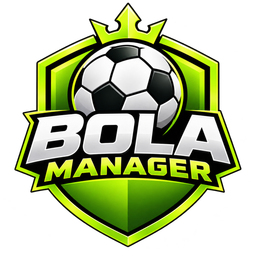
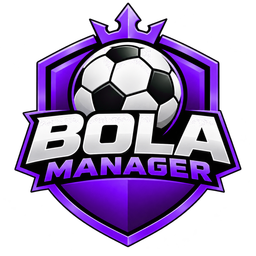
feat(menu): stadium scene with parallax, purple brand and big Continue
- Main menu over a night-stadium scene with four parallax depths
  (stadium, floodlight glow, particles, player cut-out) driven by the
  pointer through CSS variables, plus slow camera/flicker/float motion;
  all off with prefers-reduced-motion. The player shows on the career
  home only; other pages get a calmer shade for readability.
- Purple theme scoped to .main-menu--scene (dark in both themes); careers
  keep club colours and the global lime accent is untouched.
- "Continuar" first, as a large purple button with the latest save and
  date; game-style rail with tagline; glass panels for every menu page.
- Purple crest: master logo recoloured (greens only) and renditions
  regenerated; favicon.svg recoloured. Art generated for this project
  (fictional player, no real club/brand). Bahnschrift display font, no
  remote fonts. Version 0.1.13.

Changed region(s): [[0.0625, 0.0, 0.9375, 0.9688], [0.625, 0.5, 0.6562, 0.5312]]

diff --git a/files-mentioned-by-the-user-voce/outputs/bola-manager/src/styles/main-menu.css b/files-mentioned-by-the-user-voce/outputs/bola-manager/src/styles/main-menu.css
@@ -339,3 +339,98 @@
 @media (prefers-reduced-motion: reduce) {
   .main-menu *, .main-menu *::before, .main-menu *::after { animation: none !important; transition: none !important; scroll-behavior: auto !important; }
 }
+
+/* ===== Menu v2: stadium scene, purple theme and pointer parallax =====
+   Scoped to the main menu only: careers keep their club colours (AppShell/club theme). */
+.main-menu.main-menu--scene, .theme-light .main-menu.main-menu--scene {
+  --accent: #8b5cf6; --accent-hover: #a78bfa; --accent-deep: #5b21b6; --accent-dim: rgba(139, 92, 246, .18); --on-accent: #fff;
+  --canvas: #0b0914; --panel: rgba(16, 13, 28, .8); --raised: rgba(32, 26, 54, .85); --raised-2: rgba(44, 35, 72, .9);
+  --ink: #f4f2ff; --ink-soft: #d4cfea; --muted: #a39cc2; --muted-2: #7d769c; --line: rgba(255, 255, 255, .11); --line-soft: rgba(255, 255, 255, .06);
+  --green: #69d596; --blue: #8fb8ff; --amber: #e6b85c; --red: #ff7a85;
+  --menu-display: Bahnschrift, "Barlow Condensed", "Arial Narrow", sans-serif;
+  position: relative; isolation: isolate; color: var(--ink); background: #07060c;
+}
+.main-menu--scene > .main-menu__rail, .main-menu--scene > .main-menu__workspace { position: relative; z-index: 1; }
+.main-menu--scene .main-menu__workspace, .main-menu--scene .main-menu__footer, .main-menu--scene .main-menu__topbar { background: transparent; }
+
+/* Parallax layers: --mx/--my in [-0.5, 0.5] come from MenuParallaxBackdrop. */
+.menu-parallax { --mx: 0; --my: 0; position: fixed; z-index: 0; inset: 0; overflow: hidden; pointer-events: none; }
+.menu-parallax__layer { position: absolute; inset: -48px; transition: transform .6s cubic-bezier(.2, .7, .2, 1); will-change: transform; }
+.menu-parallax__stadium { transform: translate3d(calc(var(--mx) * -18px), calc(var(--my) * -12px), 0); }
+.menu-parallax__stadium-image { position: absolute; inset: 0; background: url("/assets/menu/stadium.webp") center 40% / cover no-repeat; animation: menu-kenburns 28s ease-in-out infinite alternate; }
+.menu-parallax__lights { background: radial-gradient(ellipse 30% 18% at 80% 12%, rgba(190, 160, 255, .32), transparent 70%), radial-gradient(ellipse 22% 14% at 55% 20%, rgba(150, 110, 255, .2), transparent 70%); transform: translate3d(calc(var(--mx) * -32px), calc(var(--my) * -20px), 0); animation: menu-flicker 5s ease-in-out infinite; }
+.menu-parallax__particles { inset: 0; transform: translate3d(calc(var(--mx) * -48px), calc(var(--my) * -28px), 0); }
+.menu-parallax__particles span { position: absolute; width: 4px; height: 4px; border-radius: 2px; background: #d4c5ff; box-shadow: 0 0 10px 2px rgba(160, 120, 255, .8); opacity: 0; animation: menu-float 9s linear infinite; }
+.menu-parallax__player { inset: auto 2% -2% auto; width: min(42vw, 700px); height: 92vh; transform: translate3d(calc(var(--mx) * -70px), calc(var(--my) * -22px), 0); }
+.menu-parallax__player img { width: 100%; height: 100%; object-fit: contain; object-position: bottom center; filter: drop-shadow(0 0 40px rgba(124, 58, 237, .45)); animation: menu-breathe 6s ease-in-out infinite; }
+.menu-parallax__shade { position: absolute; inset: 0; background: linear-gradient(90deg, rgba(7, 6, 12, .95) 0%, rgba(7, 6, 12, .74) 28%, rgba(7, 6, 12, .3) 58%, rgba(7, 6, 12, .55) 100%), linear-gradient(0deg, rgba(7, 6, 12, .92) 0%, rgba(7, 6, 12, 0) 32%); }
+.menu-parallax:not(.menu-parallax--home) .menu-parallax__shade { background: linear-gradient(90deg, rgba(7, 6, 12, .95), rgba(7, 6, 12, .8)); }
+.menu-parallax__streak { position: absolute; left: -10%; bottom: 7%; width: 60%; height: 3px; background: linear-gradient(90deg, transparent, #8b5cf6, transparent); opacity: .8; transform: rotate(-9deg); }
+@keyframes menu-kenburns { from { transform: scale(1.08); } to { transform: scale(1.16) translate3d(-1.5%, -1%, 0); } }
+@keyframes menu-flicker { 0%, 100% { opacity: .95; } 45% { opacity: .72; } 55% { opacity: 1; } }
+@keyframes menu-float { 0% { transform: translate3d(0, 0, 0); opacity: 0; } 15% { opacity: .9; } 100% { transform: translate3d(-40px, -260px, 0); opacity: 0; } }
+@keyframes menu-breathe { 0%, 100% { transform: translateY(0); } 50% { transform: translateY(-6px); } }
+@keyframes menu-sweep { from { transform: translateX(-120%) skewX(-18deg); } to { transform: translateX(320%) skewX(-18deg); } }
+
+/* Rail: glass column with the purple crest, tagline and big game-style options. */
+.main-menu--scene .main-menu__rail { border-right: 1px solid var(--line); background: rgba(9, 7, 17, .66); backdrop-filter: blur(14px); }
+.main-menu--scene .main-menu__brand { padding-bottom: 12px; }
+.main-menu--scene .brand-logo--menu .brand-logo__crest { filter: drop-shadow(0 0 22px rgba(124, 58, 237, .55)); }
+.main-menu__tagline { margin: 0 6px 22px; color: var(--ink-soft); font-size: 12px; font-weight: 600; letter-spacing: .26em; line-height: 1.6; text-align: center; text-transform: uppercase; }
+.main-menu--scene .main-menu__navigation { display: flex; flex-direction: column; gap: 7px; }
+.main-menu--scene .main-menu__nav-item--continue { order: -1; margin-bottom: 8px; }
+.main-menu--scene .main-menu__nav-item button { min-height: 48px; gap: 14px; padding: 10px 14px; color: var(--ink-soft); border: 1px solid var(--line); border-radius: 8px; background: rgba(14, 11, 24, .62); font-size: 15px; transition: transform 160ms ease, background 160ms ease, border-color 160ms ease, color 160ms ease; }
+.main-menu--scene .main-menu__nav-item button:not(:disabled):hover { transform: translateX(6px); color: var(--ink); border-color: rgba(167, 139, 250, .55); background: var(--raised); }
+.main-menu--scene .main-menu__nav-item button[aria-current="page"] { color: var(--ink); border-color: var(--accent); background: var(--accent-dim); }
+.main-menu--scene .main-menu__nav-item--play + .main-menu__nav-item--personal, .main-menu--scene .main-menu__nav-item--about { margin-top: 10px; padding-top: 10px; border-top: 1px solid var(--line); }
+.main-menu--scene .main-menu__nav-item--continue button { position: relative; overflow: hidden; min-height: 70px; color: #fff; border-color: rgba(190, 160, 255, .6); background: linear-gradient(90deg, var(--accent-deep), var(--accent)); box-shadow: 0 10px 36px rgba(124, 58, 237, .42); font-family: var(--menu-display); font-size: 25px; font-weight: 700; letter-spacing: .02em; }
+.main-menu--scene .main-menu__nav-item--continue button > span { display: flex; min-width: 0; flex-direction: column; gap: 2px; }
+.main-menu--scene .main-menu__nav-item--continue button:not(:disabled)::after { content: ""; position: absolute; inset: 0 auto 0 0; width: 34%; background: linear-gradient(90deg, transparent, rgba(255, 255, 255, .26), transparent); animation: menu-sweep 3.6s ease-in-out infinite; }
+.main-menu--scene .main-menu__nav-item--continue button:not(:disabled):hover { color: #fff; background: linear-gradient(90deg, var(--accent-deep), var(--accent-hover)); }
+.main-menu--scene .main-menu__nav-item--continue button:disabled { color: var(--muted); border-color: var(--line); background: rgba(14, 11, 24, .62); box-shadow: none; font-size: 21px; }
+.main-menu__continue-detail { overflow: hidden; color: rgba(255, 255, 255, .86); font-family: Inter, system-ui, sans-serif; font-size: 13px; font-weight: 500; letter-spacing: 0; text-overflow: ellipsis; white-space: nowrap; }
+.main-menu__slogan { margin: 18px 8px 0; color: var(--muted); font-family: var(--menu-display); font-size: 13px; font-style: italic; font-weight: 700; letter-spacing: .26em; text-transform: uppercase; transform: rotate(-5deg); transform-origin: left; }
+.main-menu--scene .main-menu__identity, .main-menu--scene .main-menu__exit { color: var(--ink-soft); }
+
+/* Content: glass panels over the scene; the home keeps the right side free for the player. */
+.main-menu--scene .menu-career { max-width: 680px; }
+.main-menu--scene .menu-career > .menu-page-heading h1 { color: var(--accent-hover); font-size: 13px; font-weight: 700; letter-spacing: .22em; text-transform: uppercase; }
+.main-menu--scene .menu-career__command h2 { font-family: var(--menu-display); font-size: clamp(36px, 4.4vw, 60px); font-style: italic; font-weight: 700; letter-spacing: .005em; line-height: .95; text-transform: uppercase; }
+.main-menu--scene .menu-career__command, .main-menu--scene .menu-empty, .main-menu--scene .menu-editor__access, .main-menu--scene .menu-multiplayer__intro, .main-menu--scene .menu-planned,
+.main-menu--scene .setup-form, .main-menu--scene .settings-section, .main-menu--scene .save-manager__card, .main-menu--scene .desktop-peer-panel, .main-menu--scene .menu-history__record,
+.main-menu--scene .room-sidebar, .main-menu--scene .club-selection, .main-menu--scene .desktop-catalog-import__active, .main-menu--scene .menu-notice {
+  border-radius: 12px; background: var(--panel); backdrop-filter: blur(12px);
+}
+.main-menu--scene .menu-career__destinations { border-color: var(--line); }
+.main-menu--scene .menu-career__destinations > button { border-radius: 8px; }
+
+@media (min-width: 1201px) { .main-menu.main-menu--scene { grid-template-columns: 300px minmax(0, 1fr); } .main-menu--scene .main-menu__rail { padding: 28px 22px 18px; } }
+@media (max-width: 1100px) { .menu-parallax__player { display: none; } .main-menu--scene .menu-career { max-width: none; } }
+@media (max-width: 760px) {
+  .main-menu--scene .main-menu__navigation { display: grid; }
+  .main-menu--scene .main-menu__nav-item--continue { grid-column: 1 / -1; margin-bottom: 0; }
+  .main-menu--scene .main-menu__nav-item button { min-height: 40px; font-size: 12px; }
+  .main-menu--scene .main-menu__nav-item--continue button { min-height: 56px; font-size: 20px; }
+  .main-menu--scene .main-menu__nav-item--play + .main-menu__nav-item--personal, .main-menu--scene .main-menu__nav-item--about { margin: 0; padding: 0; border-top: 0; }
+  .main-menu__tagline, .main-menu__slogan { display: none; }
+}
+@media (prefers-reduced-motion: reduce) {
+  .menu-parallax *, .menu-parallax__layer { animation: none !important; transition: none !important; }
+  .main-menu--scene .main-menu__nav-item--continue button::after { animation: none; }
+  .main-menu--scene .main-menu__nav-item button { transition: none; }
+}
+/* Menu v2 fit: the whole rail fits a 900px-tall window; saves stay left of the player. */
+.main-menu--scene .brand-logo--menu .brand-logo__crest { width: 96px; height: 96px; }
+.main-menu__tagline { margin-bottom: 16px; font-size: 11px; letter-spacing: .16em; white-space: nowrap; }
+.main-menu--scene .main-menu__navigation { gap: 5px; overflow: visible; }
+.main-menu--scene .main-menu__nav-item button { min-height: 42px; padding-block: 8px; }
+.main-menu--scene .main-menu__nav-item--continue button { min-height: 64px; }
+.main-menu--scene .main-menu__nav-item--continue { margin-bottom: 6px; }
+.main-menu--scene .main-menu__nav-note { padding: 6px 10px 2px; }
+.main-menu--scene .main-menu__nav-item--play + .main-menu__nav-item--personal, .main-menu--scene .main-menu__nav-item--about { margin-top: 6px; padding-top: 6px; }
+.main-menu--scene .main-menu__rail-footer { padding-top: 10px; }
+.main-menu--scene .main-menu__lobby--saves { max-width: 680px; }
+@media (max-height: 940px) { .main-menu__slogan { display: none; } }
+@media (max-width: 1100px) { .main-menu--scene .main-menu__lobby--saves { max-width: none; } }
+.main-menu--scene .main-menu__content { margin: 0; padding-inline: clamp(28px, 4vw, 64px); }
+.main-menu__slogan { font-size: 12px; letter-spacing: .18em; white-space: nowrap; }

diff --git a/files-mentioned-by-the-user-voce/outputs/bola-manager/src/components/menu/MainMenuLayout.tsx b/files-mentioned-by-the-user-voce/outputs/bola-manager/src/components/menu/MainMenuLayout.tsx
@@ -4,6 +4,7 @@ import type { SocketState } from '../../hooks/useSocket';
 import type { ManagerIdentity } from '../../types';
 import { getMenuCapabilities, mainMenuPages, type MainMenuPageId } from './mainMenuModel';
 import { BrandLogo } from '../shared/BrandLogo';
+import { MenuParallaxBackdrop } from './MenuParallaxBackdrop';
 
 const pageIcons = { career: Gamepad2, 'new-game': Plus, continue: Play, multiplayer: Users, editor: Database, settings: Settings2, profile: UserRound, history: BarChart3, credits: BookOpen };
 
@@ -13,6 +14,8 @@ interface MainMenuLayoutProps {
   connectionState: SocketState;
   canContinue: boolean;
   continueReason: string;
+  /** Latest save shown under "Continuar" (club/save name and date). */
+  continueDetail?: string;
   pending: boolean;
   sessionSelected: boolean;
   onNavigate: (page: MainMenuPageId) => void;
@@ -28,10 +31,12 @@ export function MainMenuLayout(props: MainMenuLayoutProps) {
       : props.connectionState === 'connecting' ? 'Conectando…' : props.identity.mode === 'peer' ? 'Anfitrião desconectado' : 'Conexão indisponível';
 
   return (
-    <div className="main-menu">
+    <div className="main-menu main-menu--scene">
+      <MenuParallaxBackdrop showPlayer={props.page === 'career' && !props.sessionSelected} />
       <a className="main-menu__skip" href="#main-menu-content">Pular para o conteúdo</a>
       <aside className="main-menu__rail">
         <div className="main-menu__brand"><BrandLogo variant="menu" /></div>
+        <p className="main-menu__tagline">Gerencie. Conquiste. Faça história.</p>
         <nav className="main-menu__navigation" aria-label="Menu principal">
           {mainMenuPages.map((item) => {
             const Icon = pageIcons[item.id];
@@ -40,15 +45,16 @@ export function MainMenuLayout(props: MainMenuLayoutProps) {
                 : item.id === 'new-game' && !capabilities.canCreate ? 'Somente o anfitrião cria carreiras.' : null;
             const disabled = Boolean(reason) || (item.id === 'continue' && props.pending);
             return (
-              <div key={item.id} className={`main-menu__nav-item main-menu__nav-item--${item.group}`}>
+              <div key={item.id} className={`main-menu__nav-item main-menu__nav-item--${item.group}${item.id === 'continue' ? ' main-menu__nav-item--continue' : ''}`}>
                 <button type="button" aria-current={!props.sessionSelected && props.page === item.id ? 'page' : undefined} disabled={disabled} title={reason ?? undefined} onClick={() => props.onNavigate(item.id)} aria-describedby={item.id === 'continue' && reason ? 'main-menu-continue-reason' : undefined}>
-                  <Icon size={17} aria-hidden="true" /><span>{item.label}</span>{props.page === item.id && !props.sessionSelected && <ChevronRight size={13} aria-hidden="true" />}
+                  <Icon size={item.id === 'continue' ? 24 : 18} aria-hidden="true" /><span>{item.label}{item.id === 'continue' && !reason && props.continueDetail && <small className="main-menu__continue-detail">{props.continueDetail}</small>}</span>{(item.id === 'continue' || (props.page === item.id && !props.sessionSelected)) && <ChevronRight size={item.id === 'continue' ? 20 : 13} aria-hidden="true" />}
                 </button>
                 {item.id === 'continue' && reason && !props.sessionSelected && <small id="main-menu-continue-reason" className="main-menu__nav-note">{reason}</small>}
               </div>
             );
           })}
         </nav>
+        <p className="main-menu__slogan" aria-hidden="true">O futebol é o seu mundo</p>
         <div className="main-menu__rail-footer">
           <button type="button" className="main-menu__identity" onClick={() => props.onNavigate('profile')} disabled={props.sessionSelected}>
             <span className="avatar">{props.identity.displayName.slice(0, 2).toLocaleUpperCase('pt-BR')}</span>

diff --git a/files-mentioned-by-the-user-voce/outputs/bola-manager/src/components/menu/MenuParallaxBackdrop.tsx b/files-mentioned-by-the-user-voce/outputs/bola-manager/src/components/menu/MenuParallaxBackdrop.tsx
@@ -1,0 +1,58 @@
+import { useEffect, useRef } from 'react';
+
+const PARTICLES = Array.from({ length: 14 }, (_, index) => ({
+  left: `${8 + (index * 67) % 88}%`,
+  top: `${40 + (index * 37) % 58}%`,
+  animationDelay: `${-(index * 0.7).toFixed(1)}s`,
+}));
+
+/**
+ * Main-menu scenery: stadium, floodlight glow, drifting particles and the player cut-out move
+ * at different depths with the pointer (CSS variables --mx/--my, one rAF per frame, no React
+ * re-render). Decorative only; disabled when the system asks for reduced motion.
+ */
+export function MenuParallaxBackdrop({ showPlayer }: { showPlayer: boolean }) {
+  const ref = useRef<HTMLDivElement>(null);
+
+  useEffect(() => {
+    const node = ref.current;
+    if (!node || window.matchMedia?.('(prefers-reduced-motion: reduce)').matches) return;
+    let frame = 0;
+    let x = 0;
+    let y = 0;
+    const apply = () => {
+      frame = 0;
+      node.style.setProperty('--mx', x.toFixed(3));
+      node.style.setProperty('--my', y.toFixed(3));
+    };
+    const schedule = () => { if (!frame) frame = window.requestAnimationFrame(apply); };
+    const onMove = (event: PointerEvent) => {
+      x = event.clientX / Math.max(1, window.innerWidth) - 0.5;
+      y = event.clientY / Math.max(1, window.innerHeight) - 0.5;
+      schedule();
+    };
+    const reset = () => { x = 0; y = 0; schedule(); };
+    window.addEventListener('pointermove', onMove, { passive: true });
+    window.addEventListener('blur', reset);
+    document.documentElement.addEventListener('pointerleave', reset);
+    return () => {
+      window.removeEventListener('pointermove', onMove);
+      window.removeEventListener('blur', reset);
+      document.documentElement.removeEventListener('pointerleave', reset);
+      if (frame) window.cancelAnimationFrame(frame);
+    };
+  }, []);
+
+  return (
+    <div ref={ref} className={`menu-parallax${showPlayer ? ' menu-parallax--home' : ''}`} aria-hidden="true">
+      <div className="menu-parallax__layer menu-parallax__stadium"><div className="menu-parallax__stadium-image" /></div>
+      <div className="menu-parallax__layer menu-parallax__lights" />
+      <div className="menu-parallax__layer menu-parallax__particles">
+        {PARTICLES.map((style, index) => <span key={index} style={style} />)}
+      </div>
+      {showPlayer && <div className="menu-parallax__layer menu-parallax__player"><img src="/assets/menu/player.webp" alt="" decoding="async" /></div>}
+      <div className="menu-parallax__shade" />
+      <div className="menu-parallax__streak" />
+    </div>
+  );
+}

diff --git a/files-mentioned-by-the-user-voce/outputs/bola-manager/src/views/MainMenuView.tsx b/files-mentioned-by-the-user-voce/outputs/bola-manager/src/views/MainMenuView.tsx
@@ -9,7 +9,7 @@ import { HistoryPage } from '../components/menu/HistoryPage';
 import { MainMenuLayout } from '../components/menu/MainMenuLayout';
 import { MultiplayerPage } from '../components/menu/MultiplayerPage';
 import { ProfilePage } from '../components/menu/ProfilePage';
-import { getMenuCapabilities, latestAuthorizedSave, sortAuthorizedSaves, type MainMenuPageId } from '../components/menu/mainMenuModel';
+import { formatSaveDate, getMenuCapabilities, latestAuthorizedSave, sortAuthorizedSaves, type MainMenuPageId } from '../components/menu/mainMenuModel';
 import { Button } from '../components/shared/Button';
 import { LobbyView, type LobbyPanelId, type LobbyViewProps } from './LobbyView';
 import { ConfigView } from './media/ConfigView';
@@ -86,7 +86,7 @@ export function MainMenuView(props: MainMenuViewProps) {
   }
 
   return <>
-    <MainMenuLayout identity={props.identity} page={props.page} connectionState={props.connectionState} canContinue={canContinue} continueReason={continueReason} pending={busy || exiting} sessionSelected={Boolean(props.room)} onNavigate={navigate} onExit={() => setExitOpen(true)}>
+    <MainMenuLayout identity={props.identity} page={props.page} connectionState={props.connectionState} canContinue={canContinue} continueReason={continueReason} continueDetail={latest ? `${latest.name} · ${formatSaveDate(latest)}` : undefined} pending={busy || exiting} sessionSelected={Boolean(props.room)} onNavigate={navigate} onExit={() => setExitOpen(true)}>
       {!props.room && props.error && <p className="form-error main-menu__error" role="alert">{props.error}</p>}
       {props.room ? <div className="menu-session-back"><Button variant="ghost" disabled={busy} icon={<ArrowLeft size={16} aria-hidden="true" />} onClick={deselectRoom}>Voltar ao menu</Button><span>Finalize a preparação ou entre na temporada selecionada.</span></div> : <>
         {props.page === 'career' && <CareerOverview identity={props.identity} latest={latest} clubs={props.clubs} loading={props.loading} pending={busy} continueReason={continueReason} onContinue={() => void continueCareer()} onNavigate={navigate} />}
